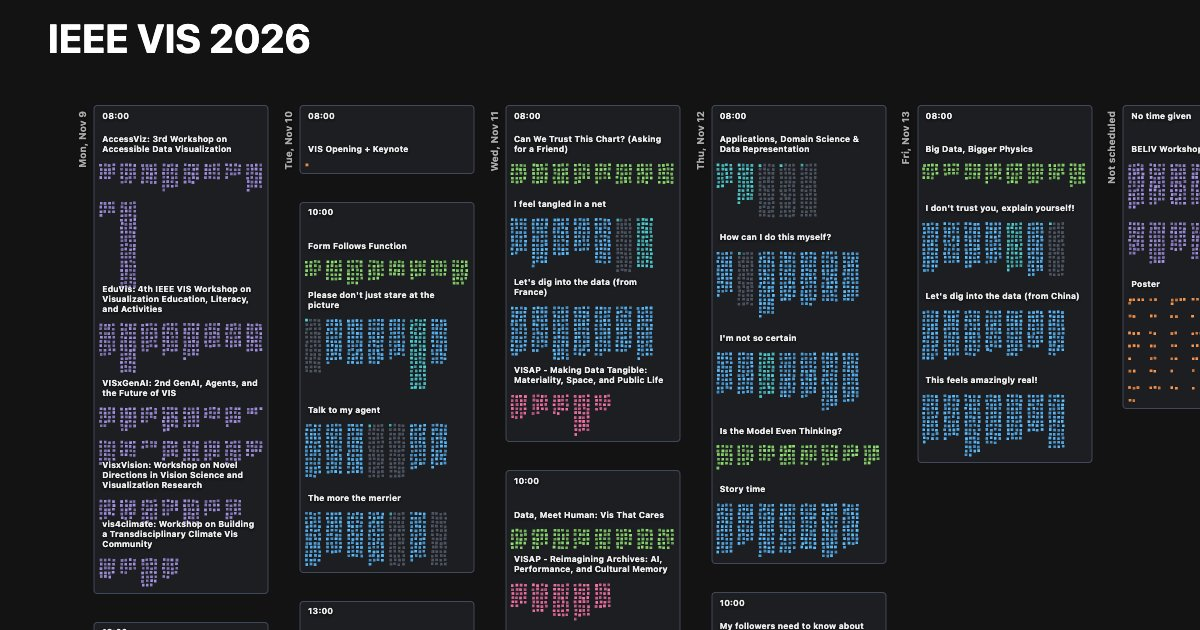
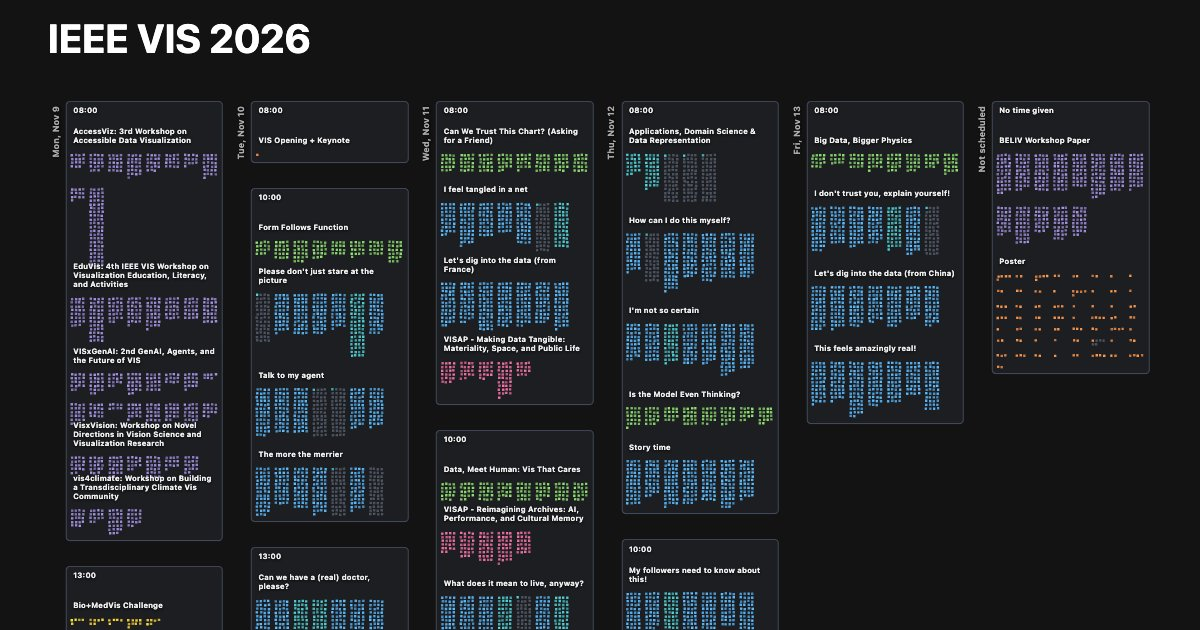
Share cards are redrawn by the screenshot run, their cameras worked out from the layout
Claude-Session: https://claude.ai/code/session_01DBAPtZoiNH14vcZbZFmLgJ

Changed region(s): [[0.0308, 0.1508, 1.0, 1.0]]

diff --git a/test/layout/shareCards.spec.ts b/test/layout/shareCards.spec.ts
@@ -1,0 +1,88 @@
+// Redraws the pictures link previews show, on the run that takes screenshots
+// (npm run test:layout:shots), so a map whose look changes gets its cards
+// refreshed beside the shots. Each camera is worked out from the layout.
+import { readFileSync, writeFileSync } from 'node:fs';
+import { test } from '../browser/fakeMap.ts';
+import { desktopOnly, openMap } from '../browser/page.ts';
+import { computeLayout as computeTanakhLayout, getLayoutBounds } from '@torahmap/tanakh/layout.ts';
+import { computeLayout as computeVisLayout, programBox } from '@torahmap/ieeevis/layout.ts';
+import { IEEEVIS_PATH } from '@torahmap/ieeevis/page.ts';
+import { STRUCTURE_FILE as TANAKH_STRUCTURE } from '@torahmap/tanakh/verseTexts.ts';
+import { STRUCTURE_FILE as VIS_STRUCTURE } from '@torahmap/ieeevis/data.ts';
+
+const CARD = { width: 1200, height: 630 };
+/** Screen pixels left clear around the map, and above it for a title. */
+const MARGIN = 48;
+const TITLE_BAND = 96;
+
+// The canvas leaves room for the panel and measures itself once at startup,
+// so the panel has to be gone before the page loads, not after.
+const HIDE_UI =
+  '<style>#panel,#menu-toggle,#map-legend,#zoom-controls,#popup{display:none!important}' +
+  ':root{--map-left:0px!important}#canvas{width:100vw!important;height:100vh!important}</style>';
+
+const titleHtml = (text: string): string =>
+  '<div style="position:fixed;left:48px;top:14px;z-index:9;color:#fff;font:700 40px system-ui,sans-serif">' +
+  `${text}</div>`;
+
+const readJson = (file: string): unknown => JSON.parse(readFileSync(`public/data/${file}`, 'utf8'));
+
+/** A link's camera showing `box` across the card's width, its top `top` pixels down; `fitHeight` shows all of it. */
+function cardCamera(
+  box: { minX: number; minY: number; maxX: number; maxY: number },
+  top: number,
+  fitHeight: boolean,
+): string {
+  const width = box.maxX - box.minX;
+  const height = box.maxY - box.minY;
+  const fits = [(CARD.width - 2 * MARGIN) / width];
+  if (fitHeight) fits.push((CARD.height - top - MARGIN) / height);
+  const zoom = Math.floor(Math.min(...fits) * 100) / 100;
+  const x = box.minX + width / 2;
+  const y = box.minY + (CARD.height / 2 - top) / zoom;
+  return `zoom=${zoom}&x=${x.toFixed(1)}&y=${y.toFixed(1)}`;
+}
+
+test.describe('share cards', () => {
+  test.skip(!process.env.SCREENSHOTS, 'the cards are redrawn only by the screenshot run');
+  test.use({ realMap: true, viewport: CARD, deviceScaleFactor: 2 });
+
+  const draw = async (
+    page: import('@playwright/test').Page,
+    { path, link, title, out }: { path: string; link: string; title?: string; out: string },
+  ) => {
+    desktopOnly('the card is drawn once, at its own size');
+    await page.route(
+      (url) => url.pathname === path,
+      async (route) => {
+        const response = await route.fetch();
+        const html = (await response.text())
+          .replace('</head>', HIDE_UI + '</head>')
+          .replace('</body>', (title ? titleHtml(title) : '') + '</body>');
+        await route.fulfill({ response, body: html });
+      },
+    );
+    await openMap(page, link, path);
+    writeFileSync(out, await page.screenshot({ type: 'jpeg', quality: 85, scale: 'css' }));
+  };
+
+  test('the Tanakh card shows the whole map', async ({ page }) => {
+    const bounds = getLayoutBounds(computeTanakhLayout(readJson(TANAKH_STRUCTURE) as never));
+    const box = { minX: 0, minY: 0, maxX: bounds.width, maxY: bounds.height };
+    await draw(page, {
+      path: '/',
+      link: `overlay=commentary&${cardCamera(box, MARGIN, true)}`,
+      out: 'public/og-image.jpg',
+    });
+  });
+
+  test('the VIS card shows the days across and the top of each', async ({ page }) => {
+    const laid = computeVisLayout(readJson(VIS_STRUCTURE) as never);
+    await draw(page, {
+      path: IEEEVIS_PATH,
+      link: `overlay=kinds&${cardCamera(programBox(laid), TITLE_BAND, false)}`,
+      title: 'IEEE VIS 2026',
+      out: 'public/ieeevis-og-image.jpg',
+    });
+  });
+});

diff --git a/apps/ieeevis/src/text.ts b/apps/ieeevis/src/text.ts
@@ -6,24 +6,19 @@ import type { TermSettings } from '@torahmap/search';
 import type { MapText } from '@torahmap/shell/app/text.ts';
 import { ENGLISH } from '@torahmap/shell/language.ts';
 import { coverElement, placeCover } from './covers.ts';
-import {
-  createMapLabels,
-  SECTION_LABEL_LINE_EM,
-  sectionLabelReach,
-} from '@torahmap/shell/mapLabels.ts';
+import { createMapLabels, SECTION_LABEL_LINE_EM } from '@torahmap/shell/mapLabels.ts';
 import type { Story } from '@torahmap/stories';
 import { baseColor, isPlaceholder, PLACEHOLDER_RING } from './baseColor.ts';
 import { TEXTS_FILE, structureFrom, type PaperTexts } from './data.ts';
 import { ieeevisFiles } from './files.ts';
 import { referenceLines } from './references.ts';
-import { computeLayout, PANEL_PAD, TIME_STRIP, type PieceItem } from './layout.ts';
+import { computeLayout, DAY_LABEL_SIZE, programBox, TIME_STRIP, type PieceItem } from './layout.ts';
 import { KINDS_ID } from './overlays/kinds.ts';
 import { VIS_OVERLAYS, visOverlayParams } from './overlays/index.ts';
 import { configureSearch, squareBody, visSearch } from './search.ts';
 import { IEEEVIS_PAGE } from './page.ts';
 import { ieeevisSite } from './site.ts';
 
-const DAY_LABEL_SIZE = { fontSize: 14, gapEm: 0.5 };
 const PANEL_TINT = [150, 170, 220] as const;
 const PANEL_OPACITY = 0.07;
 const PANEL_EDGE_OPACITY = 0.3;
@@ -69,13 +64,7 @@ export const ieeevisText: MapText<PieceItem, TermSettings> = {
       items: laid.items,
 
       startCamera(viewport) {
-        const box = {
-          minX: -PANEL_PAD - TIME_STRIP,
-          minY: -sectionLabelReach(DAY_LABEL_SIZE),
-          maxX: laid.bounds.width + PANEL_PAD,
-          maxY: laid.bounds.height + PANEL_PAD,
-        };
-        return cameraToFit(box, viewport.width, viewport.height, LINK_KEYS.zoom);
+        return cameraToFit(programBox(laid), viewport.width, viewport.height, LINK_KEYS.zoom);
       },
 
       baseColor,

diff --git a/apps/ieeevis/src/layout.ts b/apps/ieeevis/src/layout.ts
@@ -4,7 +4,7 @@
 
 import type { MapItem } from '@torahmap/engine';
 import { idHash, positionJitter } from '@torahmap/utils';
-import type { BookBox } from '@torahmap/shell/mapLabels.ts';
+import { sectionLabelReach, type BookBox } from '@torahmap/shell/mapLabels.ts';
 import type { CoverBox } from './covers.ts';
 import { timeSlotsOf, type Day, type Paper, type Section, type Structure } from './data.ts';
 
@@ -72,6 +72,18 @@ export interface Layout {
 }
 
 const nameLines = (name: string): number => Math.max(1, Math.ceil(name.length / LABEL_LINE_CHARS));
+
+export const DAY_LABEL_SIZE = { fontSize: 14, gapEm: 0.5 };
+
+/** The whole program with its day labels, time strip and panels' padding: the box the map opens fitted to. */
+export function programBox({ bounds }: Layout) {
+  return {
+    minX: -PANEL_PAD - TIME_STRIP,
+    minY: -sectionLabelReach(DAY_LABEL_SIZE),
+    maxX: bounds.width + PANEL_PAD,
+    maxY: bounds.height + PANEL_PAD,
+  };
+}
 
 export const pieceId = (paper: number, piece: number): string => `${paper}.${piece}`;
 

diff --git a/AGENTS.md b/AGENTS.md
@@ -28,7 +28,7 @@ If you stop without opening a PR, remove the label (`gh issue edit <N> --remove-
 **UI Changes:** If you make a change that affects the UI, you MAY NOT consider it complete until
 Danyel has looked at it and agreed it's ready to close. Run `npm run test:browser` first, then `npm run test:layout:shots` (about five minutes), and embed in
 the PR the screenshots it writes to `layout-report/shots/` for the states the change touches: commit
-them and link them by commit-pinned URL, since relative image paths 404 until the PR merges.
+them (the run also redraws the share cards, `public/og-image.jpg` and `public/ieeevis-og-image.jpg`; commit those when they change) and link the shots by commit-pinned URL, since relative image paths 404 until the PR merges.
 Cloudflare builds every pull request and gives it a public `workers.dev` link, which is how he looks
 without checking the branch out — so say in the PR what to look at and where. The link arrives as
 a comment from `cloudflare-workers-and-pages` (`gh pr view <n> --json comments`), which is also
